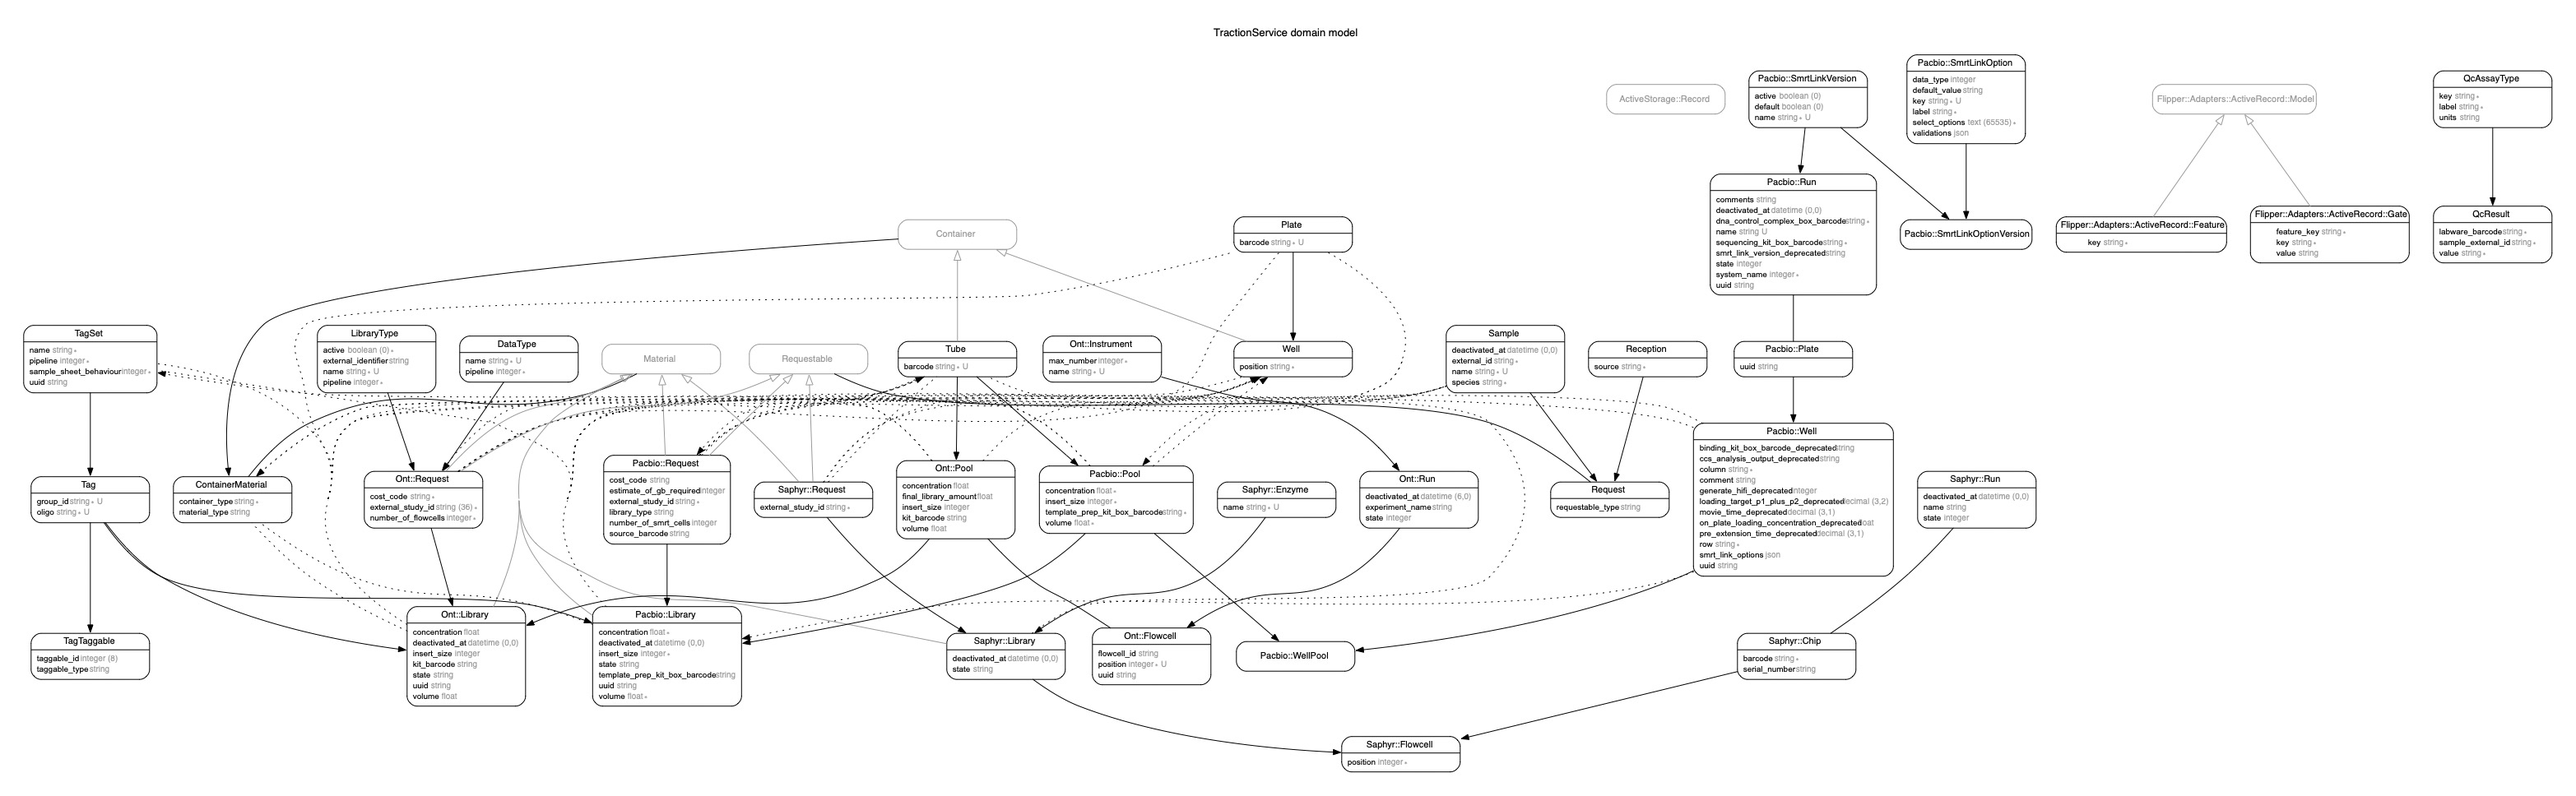
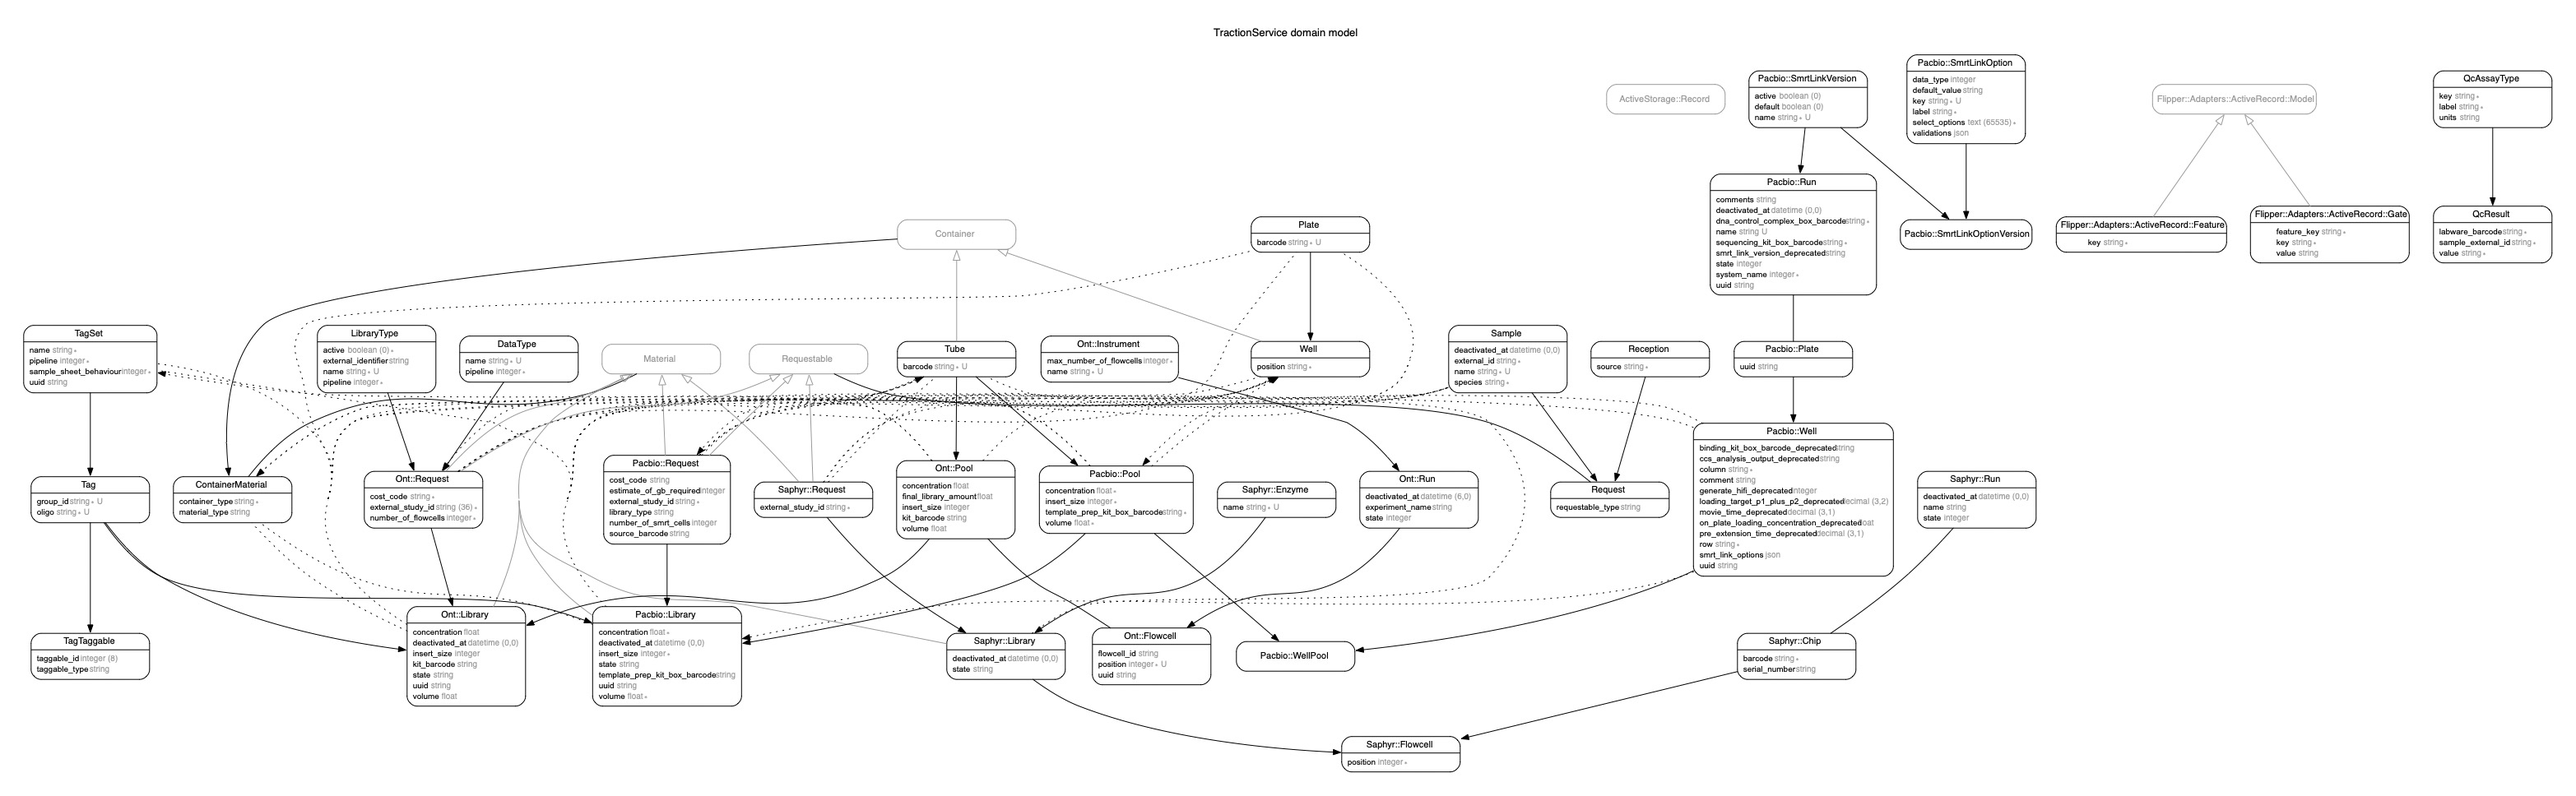
Changed ont_instrument field name from max_number to max_number_of_flowcells

diff --git a/db/schema.rb b/db/schema.rb
@@ -10,7 +10,7 @@
 #
 # It's strongly recommended that you check this file into your version control system.
 
-ActiveRecord::Schema[7.0].define(version: 2022_12_14_020747) do
+ActiveRecord::Schema[7.0].define(version: 2022_11_02_110343) do
   create_table "container_materials", charset: "utf8mb3", force: :cascade do |t|
     t.string "container_type", null: false
     t.bigint "container_id", null: false
@@ -68,27 +68,6 @@ ActiveRecord::Schema[7.0].define(version: 2022_12_14_020747) do
     t.index ["pipeline"], name: "index_library_types_on_pipeline"
   end
 
-  create_table "ont_flowcells", charset: "utf8mb3", force: :cascade do |t|
-    t.string "flowcell_id"
-    t.integer "position"
-    t.string "uuid"
-    t.bigint "ont_run_id"
-    t.bigint "ont_pool_id"
-    t.datetime "created_at", null: false
-    t.datetime "updated_at", null: false
-    t.index ["ont_pool_id"], name: "index_ont_flowcells_on_ont_pool_id"
-    t.index ["ont_run_id", "position"], name: "index_ont_flowcells_on_ont_run_id_and_position", unique: true
-    t.index ["ont_run_id"], name: "index_ont_flowcells_on_ont_run_id"
-  end
-
-  create_table "ont_instruments", charset: "utf8mb3", force: :cascade do |t|
-    t.string "name", null: false
-    t.integer "max_number", null: false
-    t.datetime "created_at", null: false
-    t.datetime "updated_at", null: false
-    t.index ["name"], name: "index_ont_instruments_on_name", unique: true
-  end
-
   create_table "ont_libraries", charset: "utf8mb3", force: :cascade do |t|
     t.string "kit_barcode"
     t.float "volume"
@@ -129,16 +108,6 @@ ActiveRecord::Schema[7.0].define(version: 2022_12_14_020747) do
     t.string "cost_code", null: false
     t.index ["data_type_id"], name: "index_ont_requests_on_data_type_id"
     t.index ["library_type_id"], name: "index_ont_requests_on_library_type_id"
-  end
-
-  create_table "ont_runs", charset: "utf8mb3", force: :cascade do |t|
-    t.bigint "ont_instrument_id"
-    t.string "experiment_name"
-    t.integer "state", default: 0
-    t.datetime "deactivated_at"
-    t.datetime "created_at", null: false
-    t.datetime "updated_at", null: false
-    t.index ["ont_instrument_id"], name: "index_ont_runs_on_ont_instrument_id"
   end
 
   create_table "pacbio_libraries", charset: "utf8mb3", force: :cascade do |t|

diff --git a/spec/models/ont/run_spec.rb b/spec/models/ont/run_spec.rb
@@ -34,13 +34,13 @@ RSpec.describe Ont::Run, ont: true do
     it 'must not have more than max_number flowcells' do
       instrument = create(:ont_promethion)
       run = create(:ont_run, instrument:)
-      (1..run.instrument.max_number).each do |position|
+      (1..run.instrument.max_number_of_flowcells).each do |position|
         create(:ont_flowcell, position:, run:)
       end
       expect(run).to be_valid # max number of flowcells
 
-      create(:ont_flowcell, position: run.instrument.max_number + 1, run:)
-      expect(run).not_to be_valid # one more than max_number
+      create(:ont_flowcell, position: run.instrument.max_number_of_flowcells + 1, run:)
+      expect(run).not_to be_valid # one more than max number of flowcells
     end
   end
 

diff --git a/db/migrate/20221214003837_create_new_ont_instruments.rb b/db/migrate/20221214003837_create_new_ont_instruments.rb
@@ -1,11 +1,8 @@
 class CreateNewOntInstruments < ActiveRecord::Migration[7.0]
   def change
-    # This table should be populated from a config file.
-    # XXX: Should we have a default flag as a column for runs?
-    # XXX: Should we have an active flag as a column to disable it?
     create_table :ont_instruments do |t|
       t.string :name, null: false, index: {unique: true}  # unique name of device
-      t.integer :max_number, null: false # Max number of flowcells
+      t.integer :max_number_of_flowcells, null: false
       t.timestamps
     end
   end

diff --git a/spec/factories/ont/instruments.rb b/spec/factories/ont/instruments.rb
@@ -3,16 +3,16 @@
 FactoryBot.define do
   factory :ont_instrument, class: 'Ont::Instrument' do
     name { 'GridION-1' }
-    max_number { 5 }
+    max_number_of_flowcells { 5 }
 
     factory :ont_minion do
       name { 'MinION-1' }
-      max_number { 1 }
+      max_number_of_flowcells { 1 }
     end
 
     factory :ont_promethion do
       name { 'PromethION-1' }
-      max_number { 24 }
+      max_number_of_flowcells { 24 }
     end
   end
 end

diff --git a/app/models/ont/run.rb b/app/models/ont/run.rb
@@ -24,7 +24,7 @@ module Ont
 
     # Validate number of flowcells against max_number value of instrument
     def check_max_number_of_flowcells
-      return if flowcells.length <= instrument.max_number
+      return if flowcells.length <= instrument.max_number_of_flowcells
 
       errors.add(:flowcells, 'must be less than instrument max number')
     end
